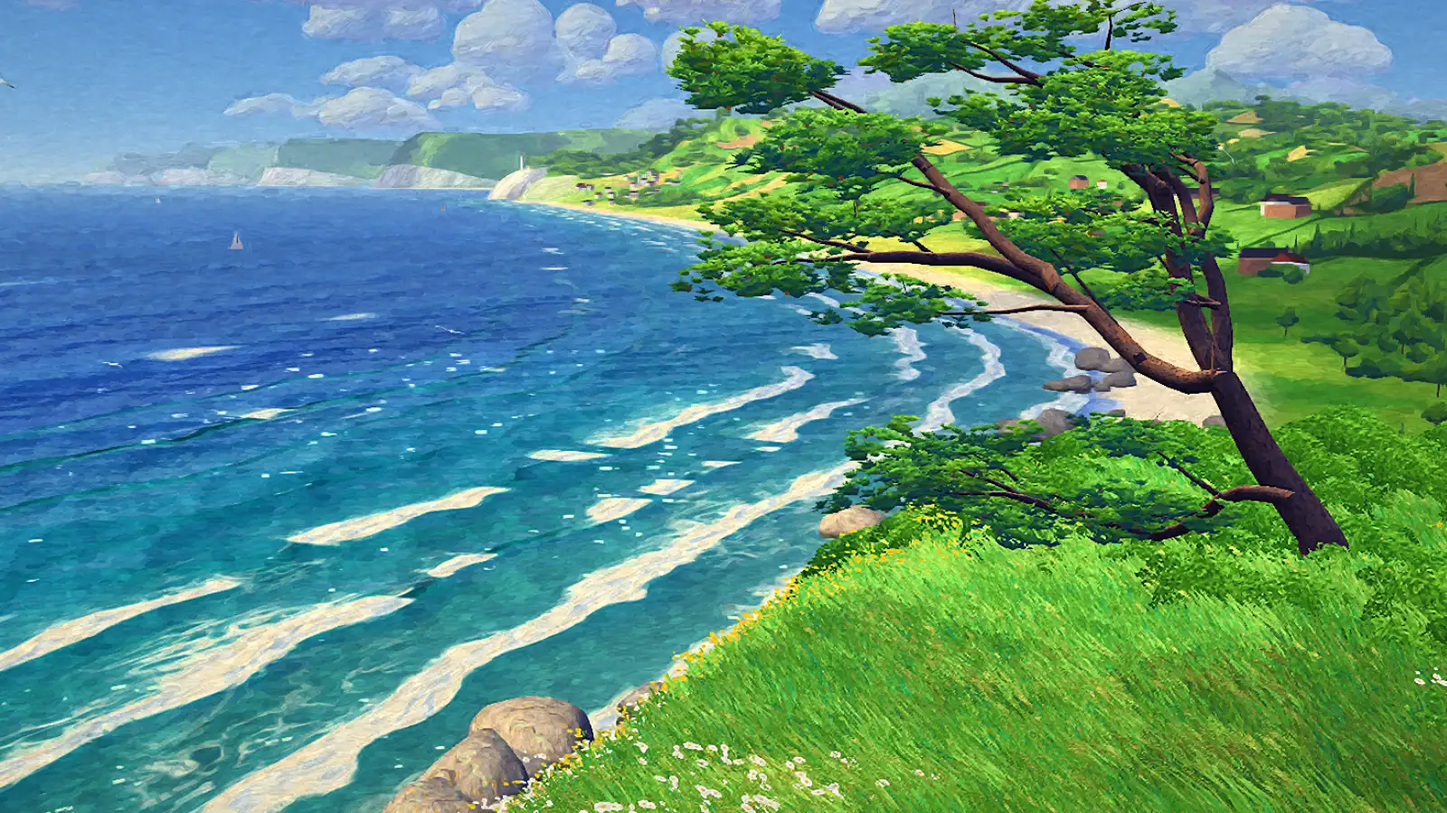
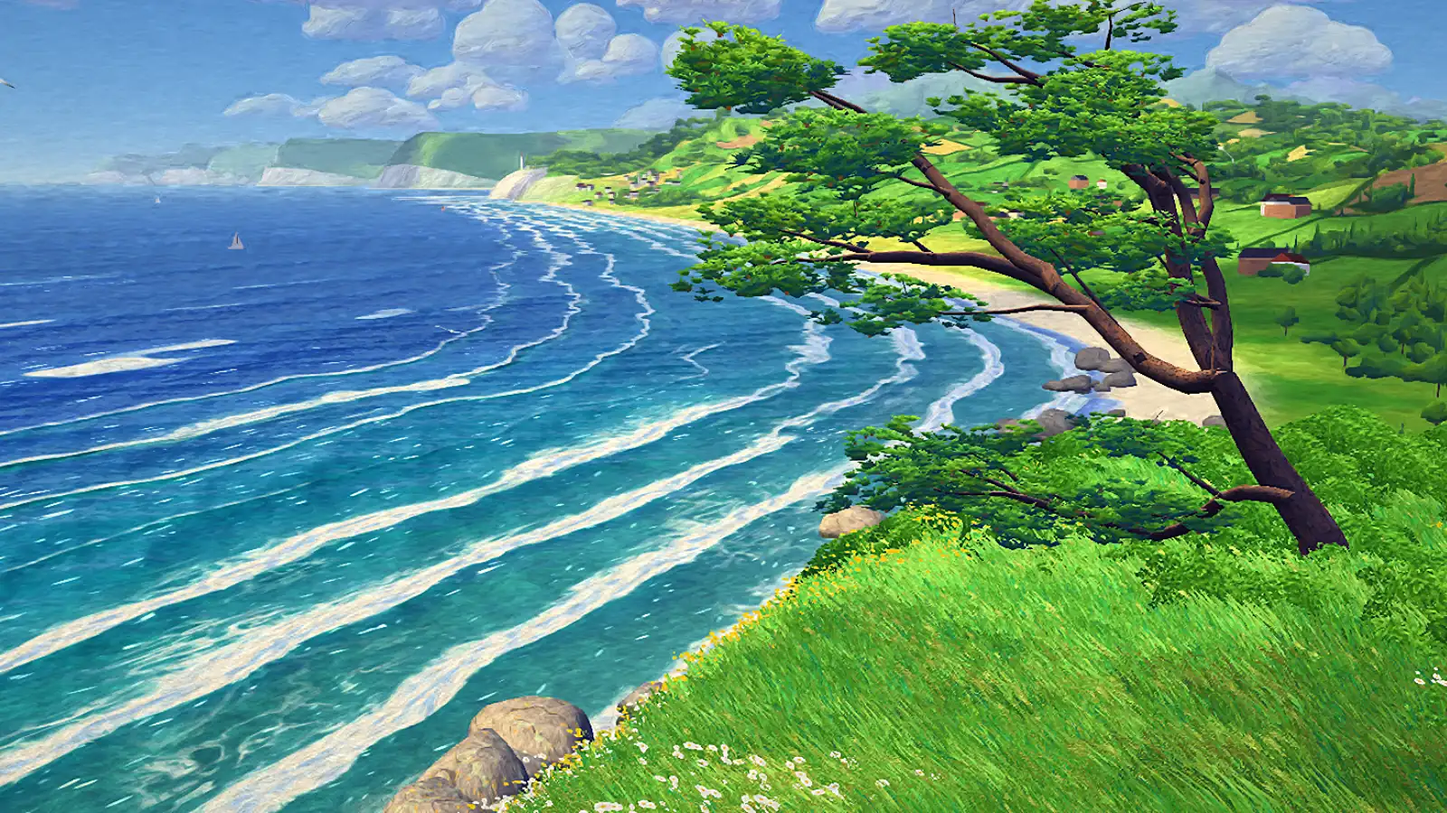
파도 해변: 파도에 얹힌 부드러운 윤슬, 끊김 없는 파도 마루, 더 선명한 해상도 (#51)
윤슬이 화면에 고정된 하얀 직사각형 격자라 부표처럼 떠 보였고, 파도는 부서지는 구간만
거의 이진으로 잘려 조각나 있었으며, 그림이 화면보다 낮은 해상도로 그려져 흐릿했다.

- 윤슬: 물 위 미터 좌표(너울 방향 기준)에 놓인 부드러운 렌즈꼴 대시. 거리에 따라 작아지고
  납작해지며, 실제 파도 경사가 해 쪽으로 기운 곳에서만 켜지고 저마다 깜박이며 너울과
  함께 떠내려간다
- 파도: 모든 마루에 끊김 없는 얇은 흰 선을 두어 만 끝까지 이어지고, 부서지는 구간에서만
  서서히 두꺼운 물거품으로 굵어진다. 거품 안쪽 결과 틈, 더 흰 빛과 푸른 그늘, 먼 바다의
  흰 물마루는 거칠고 줄무늬진 모양
- 해상도: 붓 얼룩 타일(비늘 모자이크) 완화, 붓 굵기를 중거리까지 가늘게 서서히 키움,
  픽셀 예산·비율 상향(높음 2.4M/×2, 중간 1.2M/×1.4, 낮음 760k/×1.15), 화면보다 낮은
  해상도로 그릴수록 마감 선명도를 더함
- 새 포스터(200 KB), README 갱신

Claude-Session: https://claude.ai/code/session_01T1GZnjokqEYnmaLA5mqFAj

diff --git a/components/oilSea/engine/ocean.ts b/components/oilSea/engine/ocean.ts
@@ -84,7 +84,7 @@ float surfPhase(vec2 p, float d) {
   float here = hash12(vec2(floor(section), 3.0));
   float next = hash12(vec2(floor(section) + 1.0, 3.0));
   spacing += 0.42 * (mix(here, next, smoothstep(0.6, 1.0, fract(section))) - 0.5) * smoothstep(20.0, 120.0, d);
-  return spacing + 0.5 * (vnoise(vec2(along * 0.004, 1.3)) - 0.5) + 0.7 * (fbm3(p * 0.007) - 0.5) + 0.4 * (fbm3(p * 0.02 + 3.0) - 0.5) + 0.26 * (vnoise(p * 0.045 + 9.0) - 0.5) + 0.16 * (vnoise(p * 0.11) - 0.5) + uTime / 9.0;
+  return spacing + 0.5 * (vnoise(vec2(along * 0.004, 1.3)) - 0.5) + 0.7 * (fbm3(p * 0.007) - 0.5) + 0.4 * (fbm3(p * 0.02 + 3.0) - 0.5) + 0.18 * (vnoise(p * 0.045 + 9.0) - 0.5) + 0.1 * (vnoise(p * 0.11) - 0.5) + uTime / 9.0;
 }
 
 // The swell arrives in sets: a few big waves, then a lull of smaller ones.
@@ -100,11 +100,13 @@ float brokenAt(vec2 p, float d, float wave) {
   float along = alongShore(p);
   float breakLine = 160.0 + 70.0 * vnoise(vec2(along * 0.01, 3.1));
   float progress = smoothstep(breakLine + 10.0, breakLine - 100.0, d);
-  float stretch = vnoise(vec2(along * 0.032 + wave * 7.1, wave * 2.3)) * 0.7 + vnoise(vec2(along * 0.12 + wave * 3.3, wave * 5.7)) * 0.3;
-  float threshold = 0.64 - 0.32 * progress - 0.14 * smoothstep(70.0, 25.0, d);
+  float stretch = vnoise(vec2(along * 0.02 + wave * 7.1, wave * 2.3)) * 0.7 + vnoise(vec2(along * 0.09 + wave * 3.3, wave * 5.7)) * 0.3;
+  float threshold = 0.6 - 0.32 * progress - 0.14 * smoothstep(70.0, 25.0, d);
   // Smaller waves between the sets only break close in.
   float small = step(setStrength(wave), 0.72) * smoothstep(40.0, 90.0, d);
-  return smoothstep(threshold, threshold + 0.06, stretch) * smoothstep(breakLine + 25.0, breakLine, d) * (1.0 - small);
+  // A crest breaks gradually: the foam thickens along it, then thins again,
+  // and never quite leaves it.
+  return smoothstep(threshold - 0.14, threshold + 0.2, stretch) * smoothstep(breakLine + 25.0, breakLine, d) * (1.0 - small);
 }
 
 // Height of the surf; cycle is where a point sits between two crests (0 just
@@ -141,6 +143,30 @@ float threads(vec2 q, float width, float aa) {
   return 1.0 - smoothstep(width - aa, width + aa, f);
 }
 
+// Sparkle (윤슬) at one scale: a lattice laid along the swell (s across the
+// crests, a along them, in metres), each cell holding at most one soft dash
+// that lies along the crests, flashing on and off in its own time. weight
+// thins the cells out, for fading from one scale to the next.
+float sparkleDashes(vec2 sa, float size, float seed, float density, float weight) {
+  vec2 u = vec2(sa.x / size, sa.y / (3.0 * size));
+  vec2 id = floor(u) + seed;
+  vec2 f = fract(u) - 0.5;
+  vec2 j = hash22(id);
+  vec2 k = hash22(id + 31.7);
+  vec2 m = hash22(id + 77.1);
+  // Whether it is there at all, and when it flashes.
+  float present = smoothstep(0.0, 0.08, density * weight - (1.0 - k.x));
+  float blink = smoothstep(0.3, 0.75, 0.5 + 0.5 * sin(uTime * (1.5 + 3.0 * m.y) + 6.2832 * j.x));
+  // The dash: a lens somewhere in its cell, lying a little askew to the crest.
+  float tilt = (j.y - 0.5) * 0.7;
+  vec2 d = (f - (j - 0.5) * 0.3) * vec2(size, 3.0 * size);
+  vec2 r = vec2(d.x * cos(tilt) - d.y * sin(tilt), d.x * sin(tilt) + d.y * cos(tilt));
+  vec2 reach = vec2(0.2 * size, size * (0.7 + 0.6 * m.x));
+  float e = dot(r / reach, r / reach);
+  float shape = smoothstep(0.12, 0.6, exp(-2.5 * e));
+  return shape * present * blink * (0.3 + 0.7 * k.y * k.y) * (1.0 + 0.8 * smoothstep(0.9, 1.0, m.x));
+}
+
 vec3 shadeSea(vec3 world, vec3 eye) {
   vec2 p = world.xz;
   vec3 toEye = eye - world;
@@ -163,6 +189,9 @@ vec3 shadeSea(vec3 world, vec3 eye) {
   float wave;
   float waveSize;
   float surfHeight = surf(p, d, cycle, wave, waveSize);
+  // How much of a wave's cycle one pixel covers here (continuous across the crest).
+  float behind = cycle < 0.5 ? cycle : cycle - 1.0;
+  float pixelCycle = fwidth(wave + behind);
   float broken = brokenAt(p, d, wave);
   float surfZone = smoothstep(330.0, 170.0, d);
   float inner = smoothstep(90.0, 30.0, d);
@@ -171,25 +200,33 @@ vec3 shadeSea(vec3 world, vec3 eye) {
 
   // How much foam there is. A broken crest has a thick ragged lip and the
   // bore rushing behind it; foam trails off behind that and lingers between
-  // the waves in scattered patches and streaks along the crests.
+  // the waves in scattered patches and streaks along the crests. Every
+  // crest keeps at least a thin white line, which only thickens where it
+  // breaks, so that the waves run on unbroken across the bay.
   float along = alongShore(p);
   float ragged = vnoise(vec2(along * 0.25, wave * 3.7)) * 0.6 + vnoise(vec2(along * 0.8, wave * 1.9)) * 0.4;
   float thick = 0.55 + 0.45 * vnoise(vec2(along * 0.05, wave * 3.1));
   float lip = smoothstep(0.86 - 0.08 * thick - 0.04 * ragged, 0.93 - 0.05 * thick, cycle) + smoothstep(0.03 + 0.04 * ragged, 0.0, cycle);
   float bore = exp(-cycle / (0.08 + 0.3 * thick * waveSize));
-  float swath = smoothstep(0.22, 0.72, vnoise(vec2(along * 0.014 + wave * 4.1, wave * 0.7)) * 0.75 + vnoise(vec2(along * 0.05, wave * 2.3)) * 0.25 + 0.1 * inner);
+  float swath = smoothstep(0.1, 0.8, vnoise(vec2(along * 0.014 + wave * 4.1, wave * 0.7)) * 0.75 + vnoise(vec2(along * 0.05, wave * 2.3)) * 0.25 + 0.1 * inner);
   float patches = smoothstep(0.3, 0.7, fbm3(p * 0.02 + vec2(0.0, uTime * 0.03)));
-  float density = broken * max(lip * (0.3 + 0.7 * swath), bore * (0.35 + 0.65 * swath));
+  float density = broken * max(lip * (0.4 + 0.6 * swath), bore * (0.4 + 0.6 * swath));
   float scattered = smoothstep(0.55, 0.85, patches);
   float streaks = smoothstep(0.5, 0.8, vnoise(vec2(along * 0.025, d * 0.35 + wave * 2.7)));
   density = max(density, inner * 0.32 * scattered * (0.6 + 0.4 * smoothstep(0.6, 0.0, cycle)));
   density = max(density, smoothstep(280.0, 140.0, d) * 0.24 * scattered * streaks);
-  // Unbroken crests spill a little white at the very top.
-  density = max(density, (1.0 - broken) * surfZone * smoothstep(0.955, 0.99, cycle) * smoothstep(0.35, 0.8, ragged) * 0.6);
-  // Whitecaps on the open sea.
-  float capAt = vnoise(vec2(dot(p, across) * 0.02, dot(p, SWELL_DIR) * 0.035 - uTime * 0.08));
-  float caps = smoothstep(0.35, 0.7, crest) * (1.0 - surfZone) * smoothstep(0.62, 0.8, capAt) * smoothstep(12.0, 3.0, fade);
-  density = max(density, caps * 0.8);
+  // The thin line along the crest, a little wider behind it than before it,
+  // never narrower than a few pixels; fading with the wave's size.
+  float lineHalf = max(0.012 + 0.05 * broken * (0.6 + 0.8 * ragged), 1.5 * pixelCycle);
+  float lineShape = behind < 0.0 ? behind / (0.7 * lineHalf) : behind / (1.7 * lineHalf);
+  float crestLine = exp(-lineShape * lineShape) * surfZone * smoothstep(0.1, 0.4, waveSize) * (0.55 + 0.45 * smoothstep(0.2, 0.8, ragged));
+  density = max(density, crestLine * 0.6);
+  // Whitecaps on the open sea: ragged streaks lying along the crests.
+  float capAt = vnoise(vec2(dot(p, across) * 0.045, dot(p, SWELL_DIR) * 0.08 - uTime * 0.1));
+  float capEnvelope = smoothstep(0.3, 0.65, crest) * (1.0 - surfZone) * smoothstep(0.6, 0.78, capAt) * smoothstep(12.0, 3.0, fade);
+  float capGrain = mix(0.5, fbm3(vec2(dot(p, across) * 0.16, dot(p, SWELL_DIR) * 0.55 - uTime * 0.2) + 3.0), smoothstep(2.5, 0.8, fade));
+  float caps = capEnvelope * smoothstep(0.3, 0.6, capGrain + 0.55 * capEnvelope);
+  density = max(density, caps * 0.7);
   density = clamp(density * (0.85 + 0.15 * uEnergy), 0.0, 1.0);
   // The bubbles a breaking wave churns into the water spread wider than its
   // foam and outlast it.
@@ -280,27 +317,29 @@ vec3 shadeSea(vec3 world, vec3 eye) {
 
   // Sparkle (윤슬). With the sun behind the viewer the sea gives back no mirror
   // image of it, but the little faces of the waves that lean towards it still
-  // flash: dashes of light a few pixels across however far off, coming and
-  // going as the water moves, strongest where the slope leans most to the sun.
+  // flash. They lie on the waves, not on the screen: soft dashes along the
+  // crests, laid out in metres on the water (so that they shrink and flatten
+  // with distance as the waves do, down to a few pixels), lit only where the
+  // slope leans to the sun, each flashing in its own time and drifting with
+  // the swell.
   float sunSlope = dot(n.xz, normalize(uSunDir.xz));
-  float catchLight = smoothstep(0.01, 0.07, sunSlope);
-  if (catchLight > 0.0) {
-    // Cells that stay a constant size on the screen (azimuth across, the
-    // inverse of the distance down), in rows each shifted along its own way.
-    vec2 sparkAt = vec2(atan(rel.x, -rel.y) * 70.0, 9500.0 / max(length(rel), 1.0));
-    float row = floor(sparkAt.y);
-    sparkAt.x += hash12(vec2(row, 4.0)) * 11.0 + uTime * 0.12 * (hash12(vec2(row, 9.0)) - 0.5);
-    vec2 sparkCell = vec2(floor(sparkAt.x), row);
-    float sparkId = hash12(sparkCell + 31.0);
-    // Flashes gather in patches, and are dashes of different lengths.
-    float cluster = smoothstep(0.3, 0.7, fbm3(sparkAt * vec2(0.07, 0.11) + vec2(uTime * 0.015, 3.0)));
-    float reach = 0.4 + 0.6 * hash12(sparkCell + 2.3);
-    float inCell = fract(sparkAt.x);
-    float alongDash = smoothstep(0.0, 0.1, inCell) * smoothstep(reach, reach - 0.15, inCell);
-    float thin = smoothstep(0.5, 0.18, abs(fract(sparkAt.y) - 0.5) * 1.6);
-    float blink = 0.5 + 0.5 * sin(uTime * (0.5 + 1.2 * hash12(sparkCell + 5.7)) + 6.2832 * sparkId);
-    float spark = step(1.0 - 0.55 * cluster, sparkId) * smoothstep(0.5, 0.85, blink) * alongDash * thin * catchLight * smoothstep(40.0, 4.0, fade);
-    col += vec3(1.0, 0.97, 0.86) * spark * 1.9 * (1.0 - shadow);
+  float carrier = smoothstep(-0.03, 0.04, sunSlope) * (1.0 - churned) * smoothstep(30.0, 8.0, fade);
+  if (carrier > 0.0) {
+    vec2 sa = vec2(dot(p, SWELL_DIR) - 0.6 * uTime, dot(p, across));
+    // How many pixels a metre is across the crests, there: the lattice is
+    // kept a few pixels thick, fading from one scale to the next.
+    vec2 fwd = rel / max(length(rel), 1.0);
+    float cs = dot(SWELL_DIR, fwd);
+    float fx = dist * uDetail;
+    float pixelsPerMetre = sqrt(cs * cs / (fade * fade) + (1.0 - cs * cs) / (fx * fx));
+    float lod = log2(max(0.3, 11.0 / pixelsPerMetre));
+    float scale = floor(lod);
+    float between = lod - scale;
+    // Flashes gather in patches.
+    float cluster = 0.28 + 0.72 * smoothstep(0.3, 0.7, fbm3(sa * 0.018 + 5.0));
+    float spark = sparkleDashes(sa, exp2(scale), 13.7 * scale, cluster, 1.0 - between) + sparkleDashes(sa, exp2(scale + 1.0), 13.7 * (scale + 1.0), cluster, between);
+    spark *= carrier;
+    col += mix(vec3(0.7, 0.92, 1.0), vec3(1.0, 0.97, 0.88), smoothstep(0.1, 0.45, spark)) * spark * 2.8 * (1.0 - shadow);
   }
 
   // Where the foam lies. It is carried in with the waves and drifts along
@@ -322,8 +361,17 @@ vec3 shadeSea(vec3 world, vec3 eye) {
   float sheet = smoothstep(0.45, 0.72, density + 0.5 * (fbm3(q * 1.9 + 2.0) - 0.44));
   float foam = max(sheet, lace * smoothstep(0.04, 0.3, density));
   foam = mix(foam, density, smoothstep(3.0, 14.0, fade));
-  // The lip of a breaking crest is white all along its broken stretch.
+  // Strands run through the whitewater along the crests, a few thin gaps
+  // between them where the water shows; fainter and fainter as they get finer than a pixel.
+  vec2 strandAt = foamAt + swirl * 0.45;
+  float strandFine = smoothstep(2.5, 0.8, fade);
+  float strand = vnoise(strandAt * vec2(1.4, 7.0) + 3.1) * 0.65 + vnoise(strandAt * vec2(3.3, 15.0) + 9.7) * 0.35;
+  float gaps = smoothstep(0.7, 0.86, vnoise(strandAt * vec2(2.2, 11.0) + 21.0)) * strandFine;
+  foam *= 1.0 - 0.4 * gaps;
+  // The lip of a breaking crest is white all along its broken stretch, and
+  // every crest keeps its thin line.
   foam = max(foam, broken * smoothstep(0.3, 0.9, lip) * smoothstep(0.0, 0.4, swath));
+  foam = max(foam, smoothstep(0.15, 0.7, crestLine) * 0.92);
   // The swash on the sand, and the lip of each whitecap.
   foam = max(foam, swash * (0.55 + 0.45 * threads(q * 2.0 + 3.0, 0.07, aa * 2.0)));
   // The sea washing round the rocks at the headland's foot: a collar of
@@ -340,7 +388,7 @@ vec3 shadeSea(vec3 world, vec3 eye) {
     collar *= 0.5 + 0.5 * threads(q * 2.4 + 5.0, 0.09, aa * 2.4);
     foam = max(foam, collar * 0.9);
   }
-  foam = max(foam, caps * smoothstep(0.35, 0.65, crest));
+  foam = max(foam, caps);
   // Lit on top and on the lumps that face the sun; in blue shadow in the
   // hollows, on the curl's face and in the troughs.
   vec2 sunFlat = normalize(uSunDir.xz + vec2(1e-4, 0.0));
@@ -349,8 +397,8 @@ vec3 shadeSea(vec3 world, vec3 eye) {
   float lump = fbm3(lumpAt);
   float relief = (lump - fbm3(lumpAt + sunward * vec2(3.2, 4.4))) * smoothstep(4.0, 1.5, fade);
   float curl = smoothstep(0.86, 0.94, cycle) * smoothstep(1.0, 0.96, cycle) * broken;
-  float lit = clamp(0.74 + 0.35 * dot(n, uSunDir) + 0.2 * n.y + 2.2 * relief + 0.2 * (lump - 0.44) - 0.45 * curl, 0.35, 1.25);
-  vec3 foamColour = mix(vec3(0.56, 0.68, 0.82), vec3(1.05, 1.04, 1.0), lit) * mix(vec3(1.0), vec3(0.72, 0.78, 0.9), shadow);
+  float lit = clamp(0.74 + 0.35 * dot(n, uSunDir) + 0.2 * n.y + 2.2 * relief + 0.2 * (lump - 0.44) + 0.55 * (strand - 0.5) * strandFine - 0.45 * curl, 0.35, 1.25);
+  vec3 foamColour = mix(vec3(0.5, 0.66, 0.84), vec3(1.04, 1.05, 1.06), lit) * mix(vec3(1.0), vec3(0.72, 0.78, 0.9), shadow);
   // Thin foam is a film the water shows through.
   foamColour = mix(foamColour, mix(col, vec3(0.92, 0.96, 0.98), 0.55), (1.0 - sheet) * 0.3 * smoothstep(14.0, 3.0, fade));
   // Close to, the foam is froth: fine bubbles, and small holes the water

diff --git a/components/oilSea/engine/post.ts b/components/oilSea/engine/post.ts
@@ -45,8 +45,12 @@ void main() {
   float n = uNearFar.x;
   float f = uNearFar.y;
   float dist = 2.0 * n * f / (f + n - z * (f - n));
-  // Fine within about 30 m, the full brush beyond about 500 m, eased in between.
-  float scale = mix(uFine, 1.0, smoothstep(3.4, 6.2, log(max(dist, 1.0))));
+  // Fine within about 30 m; still fairly fine through the middle distance (the
+  // bay's waters and the hills, out to a few hundred metres), where there is
+  // detail to keep; the full, broad brush only for the far headlands and the sky.
+  float far = log(max(dist, 1.0));
+  float scale = mix(uFine, 0.7, smoothstep(3.4, 5.7, far));
+  scale = mix(scale, 1.0, smoothstep(6.6, 9.0, far));
   gl_FragColor = vec4(scale, scale, scale, 1.0);
 }
 `;
@@ -209,15 +213,15 @@ vec4 dabs(vec2 px, vec3 base, float uCell) {
       float strength = smoothstep(0.0003, 0.003, t.x + t.z);
       vec2 along = normalize(mix(vec2(1.0, 0.0), dot(v, v) > 1e-12 ? normalize(v) * sign(v.x + 1e-6) : vec2(1.0, 0.0), strength) + vec2(1e-4, 0.0));
       // Where there is no form to follow, the brush wanders a little.
-      float wander = (jitter.y - 0.5) * 1.1 * (1.0 - strength);
+      float wander = (jitter.y - 0.5) * 0.5 * (1.0 - strength);
       along = vec2(along.x * cos(wander) - along.y * sin(wander), along.x * sin(wander) + along.y * cos(wander));
       float detail = smoothstep(0.002, 0.02, t.x + t.z);
-      float halfLength = uCell * (1.45 - 0.75 * detail) * (0.8 + 0.4 * jitter.x);
-      float halfWidth = uCell * (0.6 - 0.2 * detail);
+      float halfLength = uCell * (1.6 - 0.8 * detail) * (0.8 + 0.4 * jitter.x);
+      float halfWidth = uCell * (0.5 - 0.2 * detail);
       vec2 d = px - centre;
       vec2 local = vec2(dot(d, along), dot(d, vec2(-along.y, along.x)));
       float e = length(local / vec2(halfLength, halfWidth));
-      float cover = 1.0 - smoothstep(0.75, 1.0, e);
+      float cover = 1.0 - smoothstep(0.55, 1.0, e);
       if (cover <= 0.0) continue;
       vec3 colour = texture2D(tPaint, at).rgb;
       // Paint keeps within the forms: no dab across a strong edge.
@@ -226,6 +230,9 @@ vec4 dabs(vec2 px, vec3 base, float uCell) {
       float priority = hash12(c + 17.0);
       if (cover > 0.02 && priority > best) {
         best = priority;
+        // Where the picture is smooth the dab follows the paint under it, so a
+        // gradient (water, sky) stays a gradient instead of breaking into tiles.
+        colour = mix(colour, base, 0.5 * (1.0 - strength));
         // Each dab a slightly different mix, streaked by its bristles.
         float mixing = (hash12(c + 3.1) - 0.5) * (0.3 + 0.7 * strength);
         colour *= 1.0 + 0.12 * mixing;
@@ -269,6 +276,8 @@ uniform vec2 uResolution;
 uniform vec2 uSun;
 uniform float uSunVisible;
 uniform float uBrush;
+// How much to sharpen: more when the picture is stretched over many more screen pixels than it has.
+uniform float uSharpen;
 const int STROKE_STEPS = STROKE_STEP_COUNT;
 // How much of the painting's width the view shows (the rest is painted for the view to slide over).
 uniform float uView;
@@ -353,7 +362,7 @@ void main() {
   vec2 texel = 1.0 / uResolution;
   float fineness = 1.0 - clamp(texture2D(tScale, vUv).r, 0.0, 1.0) * 0.8;
   vec3 around = (texture2D(tPaint, vUv + vec2(2.0, 0.0) * texel).rgb + texture2D(tPaint, vUv - vec2(2.0, 0.0) * texel).rgb + texture2D(tPaint, vUv + vec2(0.0, 2.0) * texel).rgb + texture2D(tPaint, vUv - vec2(0.0, 2.0) * texel).rgb) * 0.25;
-  col += (col - around) * (0.25 + 0.55 * fineness);
+  col += (col - around) * (0.25 + 0.55 * fineness + uSharpen);
   col = painterColour(col);
   float cloth = weave(gl_FragCoord.xy);
   col *= 0.985 + 0.025 * cloth;
@@ -389,7 +398,7 @@ export interface PaintSettings {
 }
 
 /** The brush for the nearest things, as a fraction of the full one. */
-const FINE_BRUSH = 0.42;
+const FINE_BRUSH = 0.4;
 
 /** Turns the rendered frame into the painting. */
 export class OilPaintPost {
@@ -416,6 +425,7 @@ export class OilPaintPost {
     uSun: { value: new THREE.Vector2(0.1, 0.8) },
     uSunVisible: { value: 1 },
     uView: { value: 1 },
+    uSharpen: { value: 0 },
   };
   /** The full brush everywhere, for a frame rendered without depth. */
   private readonly fullBrush = new THREE.DataTexture(new Uint8Array([255, 255, 255, 255]), 1, 1);
@@ -450,8 +460,11 @@ export class OilPaintPost {
    * Size of the painting, the brush for it (at most the radius it was made
    * for), and how much of its width the view shows.
    */
-  setSize(width: number, height: number, radius = this.settings.radius, view = 1) {
+  setSize(width: number, height: number, radius = this.settings.radius, view = 1, upscale = 1) {
     this.finish.material.uniforms.uView.value = view;
+    // Stretched over more screen pixels than it has, the picture is softened by the
+    // browser; a little sharpening here (more the more it is stretched) gives it back.
+    this.finish.material.uniforms.uSharpen.value = Math.min(0.55, Math.max(0, 0.2 * (upscale - 1)));
     this.width = width;
     this.height = height;
     this.radius = Math.min(this.settings.radius, Math.max(1.5, radius));

diff --git a/components/oilSea/engine/SeasideEngine.ts b/components/oilSea/engine/SeasideEngine.ts
@@ -45,9 +45,9 @@ interface Profile {
 }
 
 const PROFILES: Record<SeasideQuality, Profile> = {
-  high: { maxPixels: 2_000_000, maxPixelRatio: 1.5, brush: 3, stride: 2, strokeSteps: 9, dabs: true, terrainDetail: 1, clouds: 66, grass: 31000, shrubs: 1200, rocks: 140, trees: 9000, gulls: 6 },
-  medium: { maxPixels: 1_000_000, maxPixelRatio: 1, brush: 3.5, stride: 2, strokeSteps: 6, dabs: true, terrainDetail: 0.8, clouds: 60, grass: 21500, shrubs: 820, rocks: 110, trees: 6400, gulls: 6 },
-  low: { maxPixels: 620_000, maxPixelRatio: 1, brush: 3.5, stride: 2, strokeSteps: 4, dabs: false, terrainDetail: 0.6, clouds: 52, grass: 12800, shrubs: 530, rocks: 80, trees: 3850, gulls: 5 },
+  high: { maxPixels: 2_400_000, maxPixelRatio: 2, brush: 3, stride: 2, strokeSteps: 9, dabs: true, terrainDetail: 1, clouds: 66, grass: 31000, shrubs: 1200, rocks: 140, trees: 9000, gulls: 6 },
+  medium: { maxPixels: 1_200_000, maxPixelRatio: 1.4, brush: 3.5, stride: 2, strokeSteps: 6, dabs: true, terrainDetail: 0.8, clouds: 60, grass: 21500, shrubs: 820, rocks: 110, trees: 6400, gulls: 6 },
+  low: { maxPixels: 760_000, maxPixelRatio: 1.15, brush: 3.5, stride: 2, strokeSteps: 4, dabs: false, terrainDetail: 0.6, clouds: 52, grass: 12800, shrubs: 530, rocks: 80, trees: 3850, gulls: 5 },
   software: { maxPixels: 300_000, maxPixelRatio: 1, brush: 3, stride: 2, strokeSteps: 0, dabs: false, terrainDetail: 0.5, clouds: 42, grass: 7100, shrubs: 300, rocks: 70, trees: 2050, gulls: 4 },
 };
 
@@ -235,7 +235,9 @@ export class SeasideEngine implements LiveSceneEngine {
     this.sceneTarget = new THREE.WebGLRenderTarget(width, height, { type: THREE.HalfFloatType, depthBuffer: true, depthTexture: new THREE.DepthTexture(width, height) });
     // The same brush on the same picture, whatever the resolution it is made at.
     const shown = width * (this.cssWidth / painted);
-    this.post.setSize(width, height, profile.brush * Math.sqrt((shown * height) / REFERENCE_PIXELS), shown / width);
+    // How many screen pixels each painted pixel is stretched over (1 = none).
+    const upscale = (this.cssWidth * this.devicePixelRatio) / shown;
+    this.post.setSize(width, height, profile.brush * Math.sqrt((shown * height) / REFERENCE_PIXELS), shown / width, upscale);
     this.sunPoint.copy(this.sunDirection).multiplyScalar(10000).add(this.camera.position).project(this.camera);
     this.post.setSun(this.sunPoint.x * 0.5 + 0.5, this.sunPoint.y * 0.5 + 0.5, Math.abs(this.sunPoint.x) < 1.2 && this.sunPoint.z < 1);
     if (this.oceanMaterial) {

diff --git a/README.md b/README.md
@@ -11,7 +11,7 @@
 - 진행률, 호흡 가이드, 실시간 믹서를 갖춘 방해 없는 집중 콘솔
 - 장면 오브젝트를 직접 눌러 35개 자연음 레이어를 조합하는 리빙 사운드스케이프
 - 깊은 집중 루틴의 실시간 3D 서재: 유리창을 타고 흐르는 빗방울 시뮬레이션, 렌즈처럼 도시를 비추는 물방울, 보케 야경, 스탠드 조명의 부드러운 그림자를 three.js로 렌더링하고 기기 성능에 맞춰 해상도를 자동 조절
-- 파도 해변 루틴의 유화 바다: 여름 한낮의 만(灣)과 곶을 three.js로 실제 3D 장면(얕은 곳은 모래 바닥과 햇빛 일렁임이 비치는 에메랄드빛에서 먼 바다의 깊은 파랑으로 이어지는 물, 파도마다 해 쪽 면은 밝고 반대쪽은 그늘진 입체감과 먼 바다까지 반짝이는 윤슬, 파도 묶음이 구간마다 부서지며 잔거품 결이 보이는 흰 물거품과 흩어지는 거품 줄을 남기는 바다, 바람 방향으로 천천히 흘러가는 듬성한 흰 뭉게구름과 땅·바다 위를 함께 지나가는 구름 그림자, 밭과 산울타리·숲이 있는 초록 언덕과 마을·농가, 풀잎과 이삭이 한 가닥씩 보이는 풀밭에 군데군데 핀 데이지·미나리아재비·분홍 아르메리아와 그 위로 지나가는 돌풍 자국, 솔잎 다발과 솔방울이 보이는 바람에 흔들리는 소나무, 결과 금·지의류·따개비가 있고 젖은 면이 하늘을 되비치는 회색 바위, 만 위를 맴도는 갈매기, 등대가 선 곶 너머로 겹겹이 멀어지는 흰 절벽의 곶들과 푸른 산맥, 만을 오가는 돛단배)으로 시뮬레이션하고, 매 프레임을 이방성 쿠와하라 필터와 형태를 따라 흐르는 붓 자국으로 유화처럼 다시 칠함(가까운 것은 가는 붓, 먼 것은 굵은 붓), 따뜻한 햇빛과 푸른 보랏빛 그늘, 코발트에서 에메랄드로 이어지는 바다로 환하고 풍부한 색을 냄. 화면을 좌우로 끌면 넓은 그림 위를 옮겨 보듯 풍경이 옆으로 조금 흐르고(놓으면 천천히 제자리로), 파도 소리 볼륨에 따라 부서지는 파도가 늘거나 줄어듦. 기기 성능에 맞춰 해상도·붓질 품질을 자동 조절
+- 파도 해변 루틴의 유화 바다: 여름 한낮의 만(灣)과 곶을 three.js로 실제 3D 장면(얕은 곳은 모래 바닥과 햇빛 일렁임이 비치는 에메랄드빛에서 먼 바다의 깊은 파랑으로 이어지는 물, 파도마다 해 쪽 면은 밝고 반대쪽은 그늘진 입체감과 물결 위에서 가늘게 반짝였다 사라지는 윤슬(파도에 얹혀 멀수록 작고 납작해짐), 만 끝까지 끊김 없이 이어지는 마루의 흰 선이 구간마다 두꺼운 물거품과 결이 보이는 거품 줄로 부서지는 바다, 바람 방향으로 천천히 흘러가는 듬성한 흰 뭉게구름과 땅·바다 위를 함께 지나가는 구름 그림자, 밭과 산울타리·숲이 있는 초록 언덕과 마을·농가, 풀잎과 이삭이 한 가닥씩 보이는 풀밭에 군데군데 핀 데이지·미나리아재비·분홍 아르메리아와 그 위로 지나가는 돌풍 자국, 솔잎 다발과 솔방울이 보이는 바람에 흔들리는 소나무, 결과 금·지의류·따개비가 있고 젖은 면이 하늘을 되비치는 회색 바위, 만 위를 맴도는 갈매기, 등대가 선 곶 너머로 겹겹이 멀어지는 흰 절벽의 곶들과 푸른 산맥, 만을 오가는 돛단배)으로 시뮬레이션하고, 매 프레임을 이방성 쿠와하라 필터와 형태를 따라 흐르는 붓 자국으로 유화처럼 다시 칠함(가까운 것은 가는 붓, 먼 것은 굵은 붓), 따뜻한 햇빛과 푸른 보랏빛 그늘, 코발트에서 에메랄드로 이어지는 바다로 환하고 풍부한 색을 냄. 화면을 좌우로 끌면 넓은 그림 위를 옮겨 보듯 풍경이 옆으로 조금 흐르고(놓으면 천천히 제자리로), 파도 소리 볼륨에 따라 부서지는 파도가 늘거나 줄어듦. 기기 성능에 맞춰 해상도·붓질 품질을 자동 조절하고, 화면보다 낮은 해상도로 그릴수록 선명도 보정을 더함
 - 하루 목표, 연속 기록, 7/30일 추이, 컨디션 변화를 보여주는 리포트
 - 모든 화면과 재생 중인 루틴에 `#` 주소가 있어 링크 복사·공유·북마크·새로고침 가능 (예: `#/play/focus`, `#/play/amb/cosmic`, `#/insights`). 링크로 연 루틴은 즉시 자동재생을 시도하며, 브라우저가 소리를 차단하면 안내의 재생 버튼을 한 번 눌러 시작 (허용 전에는 타이머·기록이 진행되지 않음)
 - 계정 없이 동작하는 로컬 저장, JSON 백업/복원, 설치형 PWA, 오프라인 오디오 캐시
